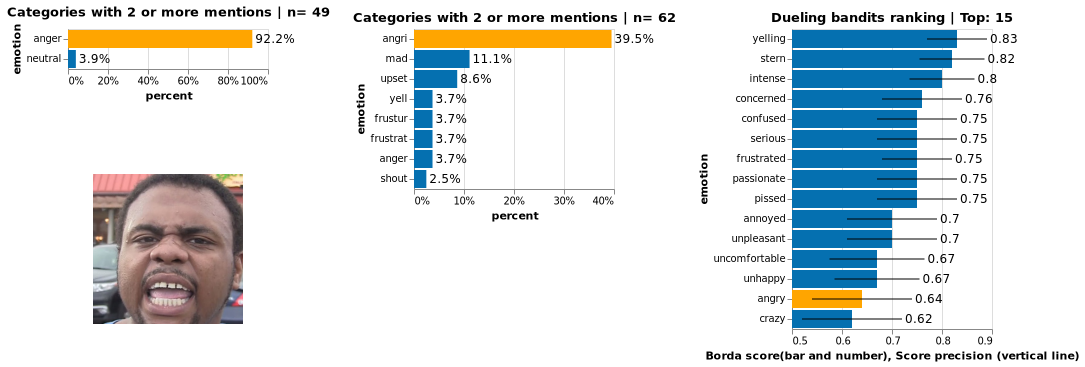
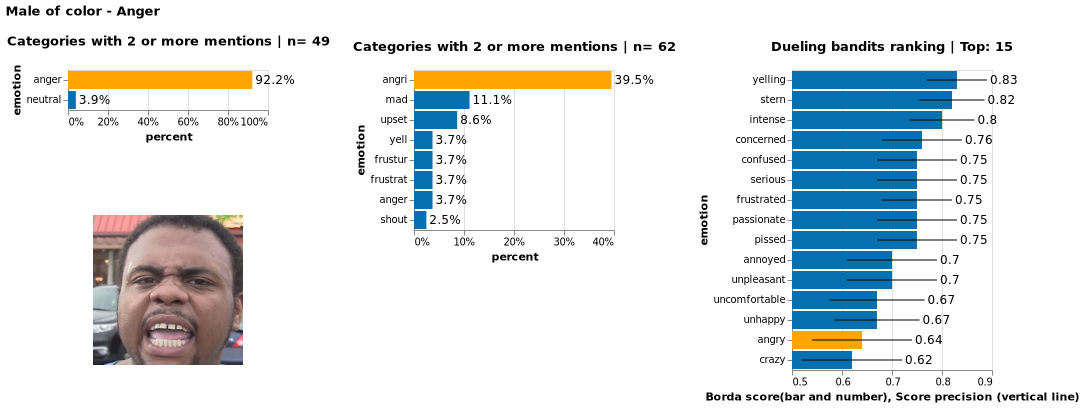
uw dueling charts updated

Changed region(s): [[0.6387, 0.03, 1.0, 0.9891], [0.0, 0.0, 0.6387, 0.6594], [0.0608, 0.4496, 0.2433, 0.8992]]

diff --git a/emotions_dashboard_2.py b/emotions_dashboard_2.py
@@ -202,35 +202,12 @@ st.write("""
 [**Dueling-bandits ranking experiment and comparison with surveys results**](#title-db):
 - [Participants demographics](#header-db-dem)
 - [Word-ranking for 'anger'](#header-db-anger)
-    - [Female of color](#subheader-db-anger-fc)
-    - [Male of color](#subheader-db-anger-fm)
-    - [White female](#subheader-db-anger-wf)
-    - [White male](#subheader-db-anger-wm)
 - [Word-ranking for 'disgust'](#header-db-disgust)
-    - [Female of color](#subheader-db-disgust-fc)
-    - [Male of color](#subheader-db-disgust-fm)
-    - [White female](#subheader-db-disgust-wf)
-    - [White male](#subheader-db-disgust-wm)
 - [Word-ranking for 'fear'](#header-db-fear)
-    - [Female of color](#subheader-db-fear-fc)
-    - [Male of color](#subheader-db-fear-fm)
-    - [White female](#subheader-db-fear-wf)
-    - [White male](#subheader-db-fear-wm)
 - [Word-ranking for 'happiness'](#header-db-happiness)
-    - [Female of color](#subheader-db-happiness-fc)
-    - [Male of color](#subheader-db-happiness-fm)
-    - [White female](#subheader-db-happiness-wf)
-    - [White male](#subheader-db-happiness-wm)
 - [Word-ranking for 'sadness'](#header-db-sadness)
-    - [Female of color](#subheader-db-sadness-fc)
-    - [Male of color](#subheader-db-sadness-fm)
-    - [White female](#subheader-db-sadness-wf)
-    - [White male](#subheader-db-sadness-wm)
 - [Word-ranking for 'surprise'](#header-db-surprise)
-    - [Female of color](#subheader-db-surprise-fc)
-    - [Male of color](#subheader-db-surprise-fm)
-    - [White female](#subheader-db-surprise-wf)
-    - [White male](#subheader-db-surprise-wm)
+
 """)
 
 st.write("""[back to the toc](#toc)""")
@@ -1244,22 +1221,18 @@ st.write("""[back to the toc](#toc)""")
 st.header('Word-rankings for anger', 'header-db-anger')
 
 # anger female of color #
-st.subheader("Female of color", "subheader-db-anger-fc")
 image = Image.open('data/anger_bfa_next_panel.png')
 st.image(image)
 
 # anger male of color #
-st.subheader("Male of color", "subheader-db-anger-mc")
 image = Image.open('data/anger_bma_next_panel.png')
 st.image(image)
 
 # anger white female #
-st.subheader("White female", "subheader-db-anger-wf")
 image = Image.open('data/anger_wfa_next_panel.png')
 st.image(image)
 
 # anger white male  #
-st.subheader("White male", "subheader-db-anger-wm")
 image = Image.open('data/anger_wma_next_panel.png')
 st.image(image)
 
@@ -1269,22 +1242,18 @@ st.write("""[back to the toc](#toc)""")
 st.header('Word-rankings for disgust', 'header-db-disgust')
 
 # disgust female of color #
-st.subheader("Female of color", "subheader-db-disgust-fc")
 image = Image.open('data/disgust_bfa_next_panel.png')
 st.image(image)
 
 # disgust male of color #
-st.subheader("Male of color", "subheader-db-disgust-mc")
 image = Image.open('data/disgust_bma_next_panel.png')
 st.image(image)
 
 # disgust white female #
-st.subheader("White female", "subheader-db-disgust-wf")
 image = Image.open('data/disgust_wfa_next_panel.png')
 st.image(image)
 
 # disgust white male  #
-st.subheader("White male", "subheader-db-disgust-wm")
 image = Image.open('data/disgust_wma_next_panel.png')
 st.image(image)
 
